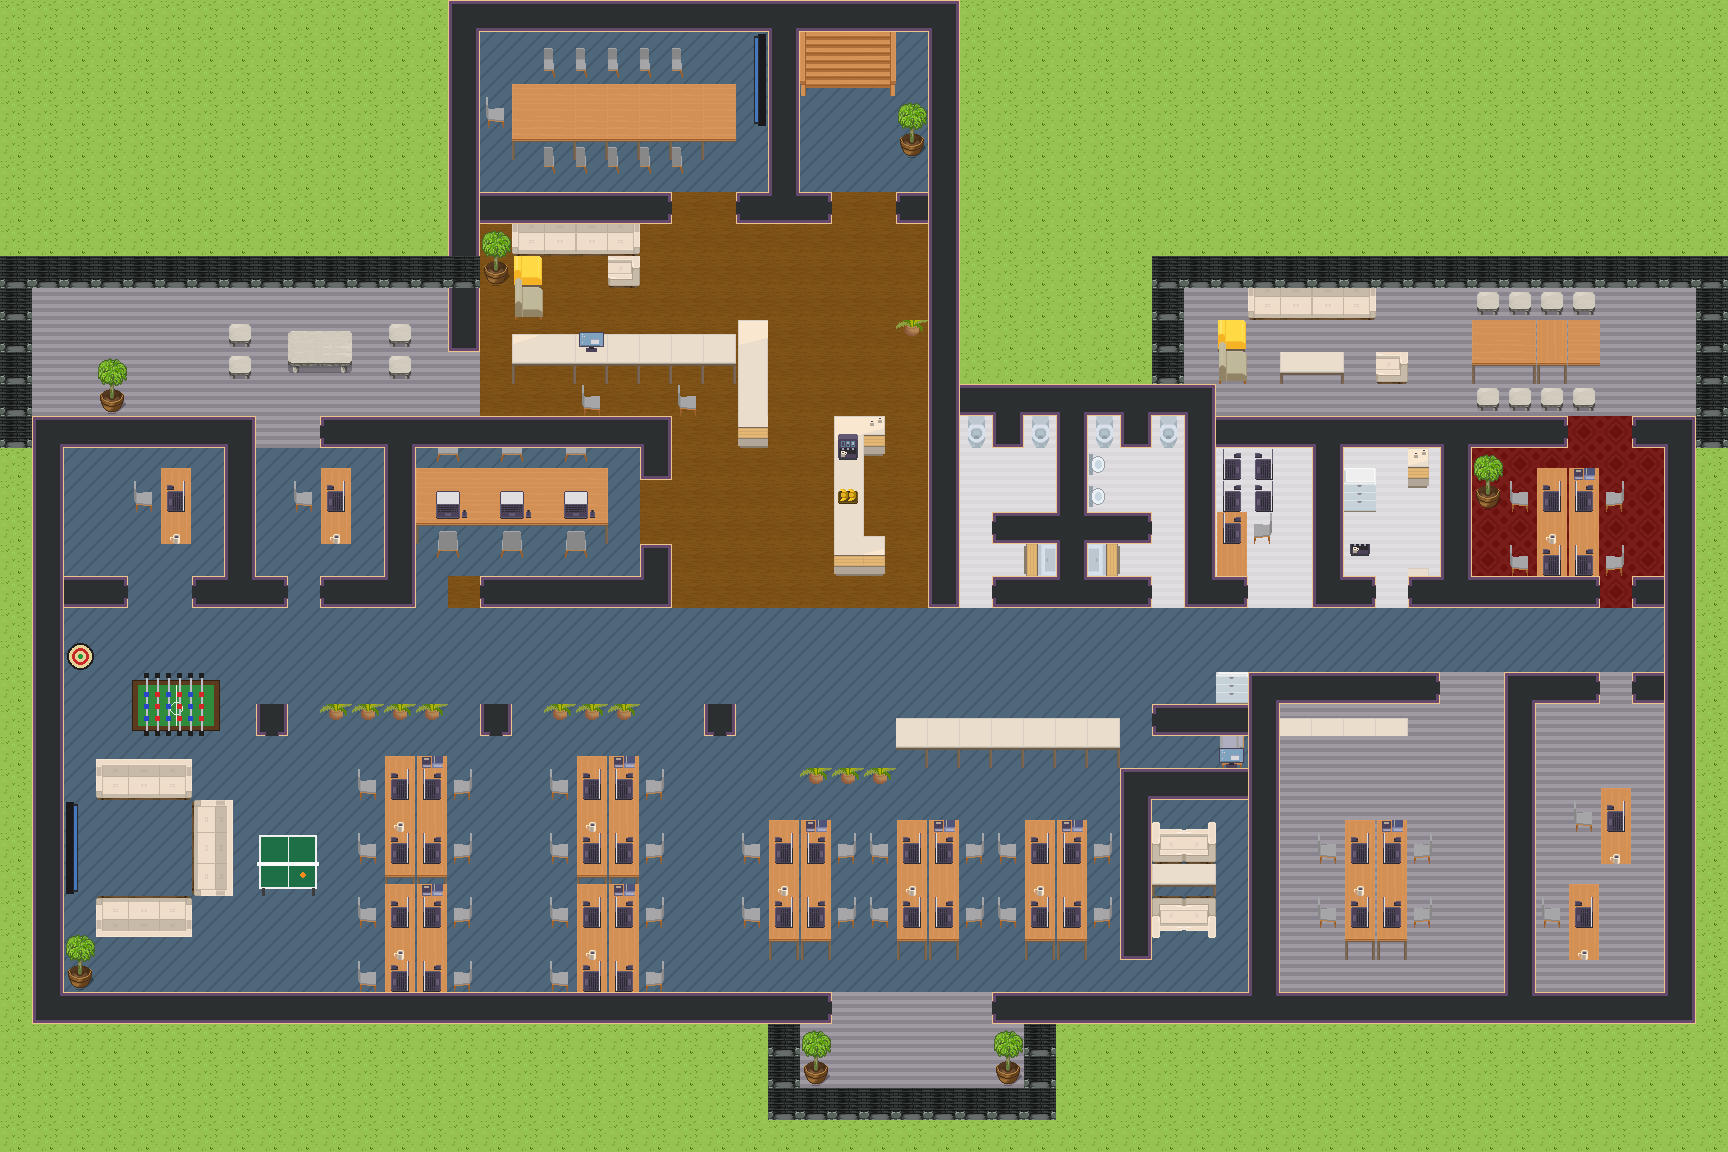
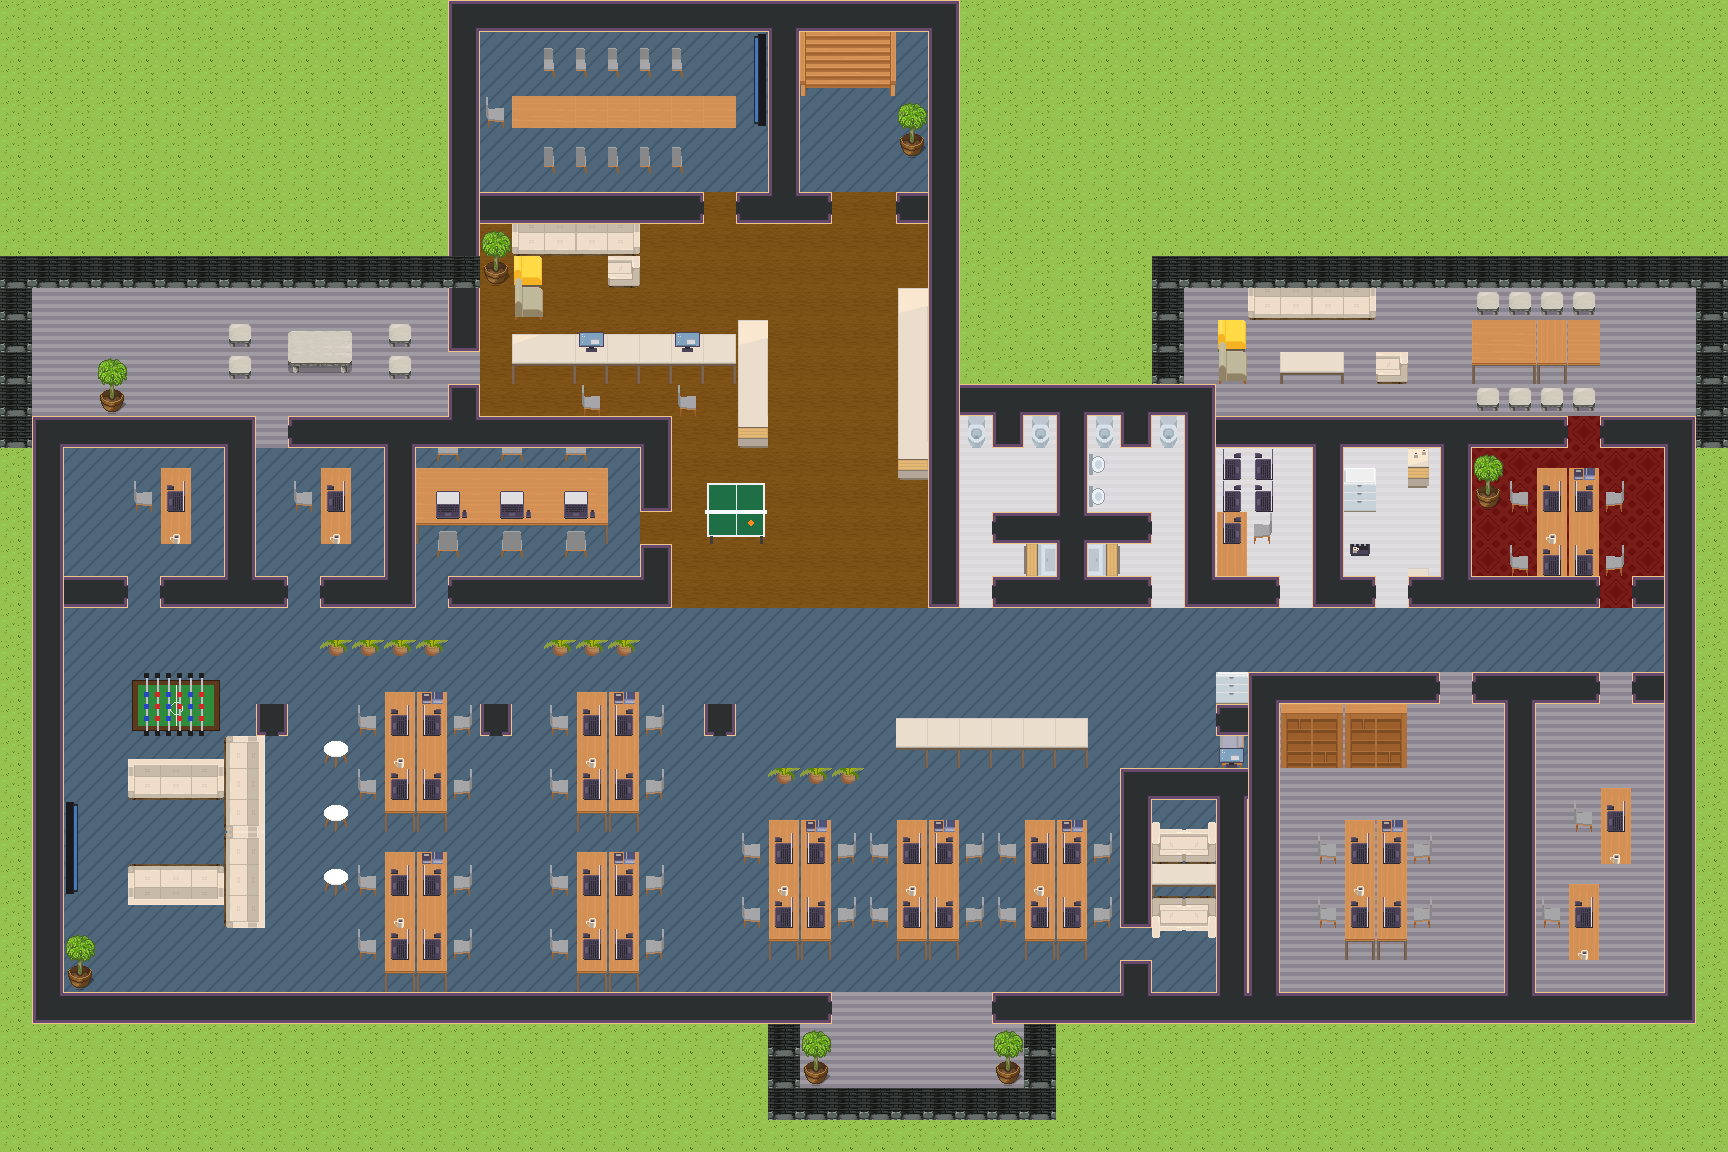
Apply office walkthrough feedback: narrower doors, short phone booth, compact lounge box, closed horseshoe couch with high tables, table tennis in the lounge, long wall table instead of bar, full conference chairs, second reception PC, cabinets against the wall

diff --git a/build.py b/build.py
@@ -42,7 +42,7 @@ floor(37, 8, 52, 13, STONE)          # right balcony
 floor(29, 12, 37, 18, TILE_WHITE); floor(37, 13, 41, 18, TILE_WHITE)  # WCs + server room
 floor(41, 13, 45, 18, TILE_WHITE)    # kitchen
 floor(45, 13, 52, 18, RED)           # red meeting room
-floor(13, 14, 19, 17, SLATE)         # meeting room
+floor(13, 14, 19, 18, SLATE)         # meeting room (incl. its door)
 floor(39, 21, 52, 31, STONE)         # right offices (light grey)
 floor(25, 31, 31, 33, STONE)         # bottom balcony
 floor(25, 0, 29, 5, SLATE)           # stairwell (main entrance, north of reception)
@@ -74,7 +74,7 @@ hwall(29, 52, 18); vwall(33, 12, 18); vwall(41, 13, 18); vwall(45, 13, 18)
 # right offices
 hwall(39, 52, 21); vwall(39, 21, 31); vwall(47, 21, 31)
 # right end of the open space: phone booth (1 person) and a small walled lounge-meeting corner
-hwall(37, 38, 22); hwall(35, 38, 24); vwall(35, 24, 30)
+WALL.add((38, 22)); hwall(35, 38, 24); vwall(35, 24, 30); vwall(38, 24, 30)
 # pillars in the open space
 for px in (8, 15, 22): WALL.add((px, 22))
 
@@ -90,17 +90,16 @@ for y in range(32, 35): FENCE.add((24, y)); FENCE.add((32, y))
 # doors
 hwall(24, 29, 0); vwall(29, 0, 6)       # stairwell walls
 door((26, 6), (27, 6))                 # stairwell -> reception
-door((21, 6), (22, 6))                 # conference <-> lounge
-door((14, 11), (14, 12))               # lounge <-> left balcony
-door((8, 13), (9, 13))                 # office B <-> balcony
-door((4, 18), (5, 18), (9, 18), (13, 18), (14, 18))
-door((20, 15), (20, 16))               # meeting <-> lounge
-door((30, 18), (36, 18), (39, 18), (40, 18), (43, 18), (50, 18))
-door((49, 13), (50, 13))               # red room <-> right balcony
-door((45, 21), (46, 21), (50, 21))
-vwall(36, 22, 24)
-door((36, 23), (35, 30))               # phone booth, small lounge
-door((26, 31), (27, 31), (28, 31), (29, 31), (30, 31))
+door((22, 6))                 # conference <-> lounge
+door((14, 11))               # lounge <-> left balcony
+door((8, 13))                 # office B <-> balcony
+door((4, 18), (9, 18), (13, 18))
+door((20, 16))               # meeting <-> lounge
+door((30, 18), (36, 18), (40, 18), (43, 18), (50, 18))
+door((49, 13))               # red room <-> right balcony
+door((45, 21), (50, 21))
+door((35, 29))                         # small lounge entrance
+door((27, 31), (28, 31))
 for x in range(21, 29): WALL.discard((x, 18))   # lounge open towards corridor
 
 def wall_tile(x, y):
@@ -157,12 +156,17 @@ COUNTER = (1, 7, 2, 6)
 OUT_TABLE = (12, 18, 6, 2)
 BENCHES = (21, 17, 5, 1)
 
+def block(x, y, w, h, first, cols=8, flip=0, coll=True):
+    """Place a w*h block from the custom tileset (index layout with `cols` columns)."""
+    for dy in range(h):
+        for dx in range(w):
+            obj('furniture1', x + dx, y + dy, (first + dy * cols + dx) | flip, coll)
 def plant_big(x, y):
     put('furniture2', x, y, 91); put('furniture1', x, y + 1, 103); put('collisions', x, y + 1, COLL)
 def plant_small(x, y):
     obj('furniture1', x, y, 83)
 def planter(x0, x1, y):
-    for x in range(x0, x1 + 1): obj('furniture1', x, y, 83)
+    for x in range(x0, x1 + 1): put('furniture1', x, y, 83)
 
 # conference room: long table centred
 for x in range(17, 22):
@@ -170,8 +174,7 @@ for x in range(17, 22):
     put('furniture2', x, 4, 1499); put('furniture2', x, 5, 1512)        # chairs facing up
 for x in range(16, 23):
     c = 0 if x == 16 else 3 if x == 22 else 1
-    put('above1', x, 2, 1557 + c); put('furniture1', x, 3, 1567 + c); put('furniture1', x, 4, 1577 + c)
-    for y in (2, 3, 4): put('collisions', x, y, COLL)
+    obj('furniture1', x, 3, 1567 + c)
 stamp(10, 4, 1, 1, 15, 3, coll=False)                                   # chair at the left table end
 for dy in range(3): obj('furniture1', 23, 1 + dy, (TV + dy * 8) | FLIP_X) # TV on the right wall
 # lounge: plant, sofa + armchairs, curved reception desk, bar on the right
@@ -183,10 +186,11 @@ for x in range(16, 23):                        # reception counter, horizontal p
 obj('furniture1', 16, 10, 1597); obj('furniture1', 16, 11, 1607)
 for y, g in zip(range(10, 14), (1627, 1637, 1647, 1667)):   # reception counter, right wing of the L
     obj('furniture1', 23, y, g)
-put('furniture2', 18, 10, 110)                 # monitor
+put('furniture2', 18, 10, 110); put('furniture2', 21, 10, 110)   # two workstations
 stamp(10, 4, 1, 1, 18, 12, coll=False); stamp(10, 4, 1, 1, 21, 12, coll=False)
-stamp(*COUNTER, 26, 12)                        # bar (walkable lane behind it)
-plant_small(28, 10)
+for y, g in zip(range(9, 15), (1627, 1637, 1647, 1647, 1657, 1667)):   # long table along the right wall
+    obj('furniture1', 28, y, g)
+block(22, 15, 2, 2, PINGPONG)
 # left balcony
 stamp(*OUT_TABLE, 7, 10)
 plant_big(3, 11)
@@ -217,30 +221,24 @@ stamp(2, 8, 1, 4, 44, 14); obj('furniture1', 42, 14, 136); obj('furniture1', 42,
 # red meeting room
 plant_big(46, 14); stamp(10, 3, 4, 4, 47, 14)
 # open space: planters + desk clusters as in Gather
-planter(10, 13, 22); planter(17, 19, 22); planter(25, 27, 24)
-stamp(*DESK4, 11, 23); stamp(10, 3, 4, 4, 11, 27)
-stamp(*DESK4, 17, 23); stamp(10, 3, 4, 4, 17, 27)
+planter(10, 13, 20); planter(17, 19, 20); planter(24, 26, 24)
+stamp(*DESK4, 11, 21); stamp(*DESK4, 11, 26)
+stamp(*DESK4, 17, 21); stamp(*DESK4, 17, 26)
 stamp(*DESK4, 23, 25)
 stamp(*DESK4, 27, 25); stamp(*DESK4, 31, 25)
 # white sideboard
-for x in range(28, 35): obj('furniture1', x, 22, 1598); obj('furniture1', x, 23, 1608)
-
-def block(x, y, w, h, first, cols=8, flip=0, coll=True):
-    """Place a w*h block from the custom tileset (index layout with `cols` columns)."""
-    for dy in range(h):
-        for dx in range(w):
-            obj('furniture1', x + dx, y + dy, (first + dy * cols + dx) | flip, coll)
+for x in range(28, 34): obj('furniture1', x, 22, 1598); obj('furniture1', x, 23, 1608)
 
 # left end of the open space: dart, kicker, TV with horseshoe couch, table tennis
-obj('furniture1', 2, 20, DART)
 block(4, 21, 3, 2, KICKER)
 block(2, 25, 1, 3, TV)
 for i, g in enumerate([1375, 1376, 1377, 1388, 1389, 1390]):          # top arm, facing down
-    put('furniture1', 3 + i % 3, 23 + i // 3, g)
+    put('furniture1', 4 + i % 3, 23 + i // 3, g)
 for i, g in enumerate([1388, 1389, 1390, 1375, 1376, 1377]):          # bottom arm, flipped to face up
-    put('furniture1', 3 + i % 3, 28 + i // 3, g | FLIP_Y)
-block(6, 25, 2, 3, SOFA_SIDE, coll=False)                                          # back of the horseshoe
-block(8, 26, 2, 2, PINGPONG)
+    put('furniture1', 4 + i % 3, 27 + i // 3, g | FLIP_Y)
+block(7, 23, 2, 3, SOFA_SIDE, coll=False)                             # back of the U, closing both corners
+block(7, 26, 2, 3, SOFA_SIDE, coll=False)
+for y in (23, 25, 27): obj('furniture1', 10, y, 1687)                 # high tables
 plant_big(2, 29)
 
 # right end of the open space: printer, phone booth, small lounge with two 2-seaters
@@ -248,13 +246,14 @@ obj('furniture1', 38, 21, 146)   # printer, one tile so the corridor stays free
 put('furniture1', 38, 23, 1471); put('furniture2', 38, 23, 110)       # booth: seat + screen
 for i, g in enumerate([1405, 1406, 1418, 1419]):
     put('furniture1', 36 + i % 2, 25 + i // 2, g)
-stamp(3, 5, 2, 1, 36, 27)                                              # coffee table
+stamp(3, 5, 2, 1, 36, 27, coll=False)                                  # coffee table
 for i, g in enumerate([1418, 1419, 1405, 1406]):
     put('furniture1', 36 + i % 2, 28 + i // 2, g | FLIP_Y)
 # right offices
 stamp(*DESK4, 41, 25)
 stamp(10, 3, 2, 3, 49, 24); stamp(10, 3, 2, 3, 48, 27)
-for x in range(40, 44): obj('furniture1', x, 22, 1598)
+for x0 in (40, 42):                                                  # cabinets against the wall
+    for i, g in enumerate([233, 234, 245, 246]): obj('furniture1', x0 + i % 2, 22 + i // 2, g)
 # entrance
 plant_big(25, 32); plant_big(31, 32)
 
